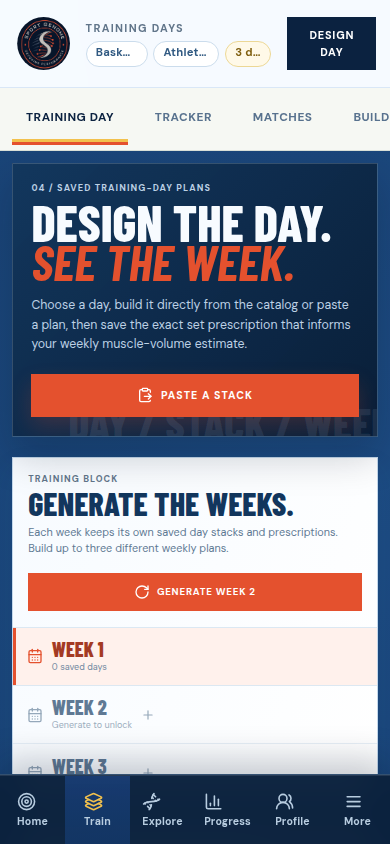
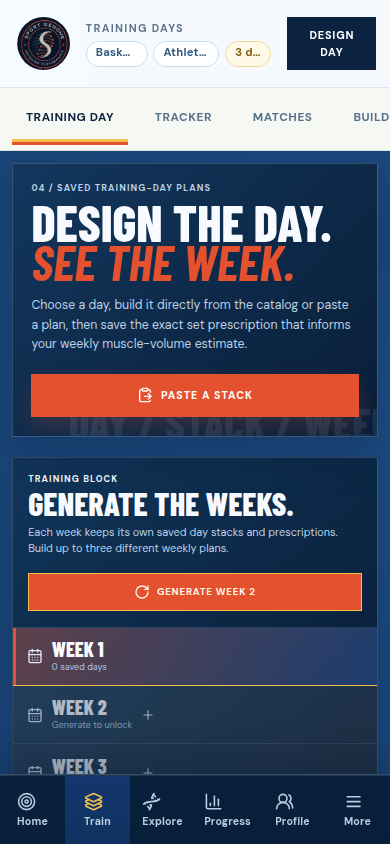
Checkpoint: Published the Training Day and Tracker dark-surface refinement. Remaining broad white weekly-planning cards now use layered operational navy panels, with white/cool-blue text, clear gold/orange active states, and unchanged actions. Tracker’s day selection and direct-entry workout panel n

diff --git a/client/src/index.css b/client/src/index.css
@@ -707,6 +707,22 @@ select {
 .destination-train .day-programming-panel .metric-label, .destination-train .day-programming-panel strong, .destination-train .day-programming-panel label, .destination-train .day-programming-panel summary { color: #edf7ff; }
 .destination-train .day-programming-panel small, .destination-train .day-programming-panel p, .destination-train .day-programming-panel .custom-detail-row label { color: #c3d7ea; }
 .destination-train .day-programming-panel select, .destination-train .day-programming-panel textarea { border-color: rgb(164 200 232 / .42); background: #0b2240; color: #f7fbff; }
+.destination-train .three-week-planner, .destination-train .weekly-plan-board { border: 1px solid rgb(164 200 232 / .26); background: linear-gradient(140deg, rgb(16 52 88 / .94), rgb(7 25 47 / .98)); box-shadow: 0 16px 36px rgb(1 12 28 / .22); color: #edf7ff; }
+.destination-train .three-week-head, .destination-train .weekly-plan-head { border-bottom-color: rgb(164 200 232 / .2); }
+.destination-train .three-week-head h2, .destination-train .weekly-plan-head h3, .destination-train .three-week-head .metric-label, .destination-train .weekly-plan-head .metric-label { color: #f7fbff; }
+.destination-train .three-week-head p, .destination-train .weekly-plan-head p { color: #bfd5ea; }
+.destination-train .three-week-head > button, .destination-train .weekly-plan-head > button { border-color: #f2c14d; background: #e4512e; color: #fff7e7; }
+.destination-train .three-week-tabs { border-color: rgb(164 200 232 / .22); background: rgb(255 255 255 / .05); }
+.destination-train .three-week-tabs button, .destination-train .weekly-day-card { border-color: rgb(164 200 232 / .2); background: rgb(255 255 255 / .055); color: #dceafb; }
+.destination-train .three-week-tabs button strong, .destination-train .weekly-day-card strong { color: #f7fbff; }
+.destination-train .three-week-tabs button small, .destination-train .weekly-day-card small { color: #acc9e4; }
+.destination-train .three-week-tabs button[aria-pressed="true"], .destination-train .weekly-day-card[aria-pressed="true"] { border-color: #f2c14d; background: linear-gradient(115deg, rgb(228 81 46 / .34), rgb(45 108 223 / .28)); box-shadow: inset 3px 0 0 #e4512e; }
+.destination-train .device-workout-tracker .session-exercise { border-color: rgb(164 200 232 / .22); background: rgb(5 23 44 / .72); }
+.destination-train .device-workout-tracker .session-exercise strong, .destination-train .device-workout-tracker .session-exercise small, .destination-train .device-workout-tracker .session-set-row strong, .destination-train .device-workout-tracker .session-set-row label span { color: #e7f2fc; }
+.destination-train .device-workout-tracker .session-set-row { border-top-color: rgb(164 200 232 / .18); background: rgb(255 255 255 / .035); }
+.destination-train .device-workout-tracker .session-set-row input { border-color: rgb(164 200 232 / .4); background: #0b2240; color: #f7fbff; }
+.destination-train .device-workout-tracker .session-set-row button { border-color: rgb(164 200 232 / .45); background: rgb(255 255 255 / .09); color: #eef7ff; }
+.destination-train .device-workout-tracker .session-set-complete { border-left-color: #f2c14d; background: rgb(242 193 77 / .11); }
 
 .apex-content.destination-explore { background: radial-gradient(circle at 12% 10%, #d8edff 0, #eff7ff 30%, #cbdff4 100%); }
 .destination-explore .atlas-sport-picker, .destination-explore .movement-selector, .destination-explore .body-lab-v2 > .view-header, .destination-explore .catalog-discovery { border-color: #90b8de; background: linear-gradient(135deg, #103b67, #0a274b); color: #eff8ff; box-shadow: 0 16px 34px rgb(8 38 73 / .16); }

diff --git a/client/src/trainDestination.styles.test.ts b/client/src/trainDestination.styles.test.ts
@@ -1,0 +1,15 @@
+import { describe, expect, it } from "vitest";
+import { readFileSync } from "node:fs";
+
+const source = readFileSync(new URL("./index.css", import.meta.url), "utf8");
+
+describe("Train destination operational surfaces", () => {
+  it("keeps weekly planning and Tracker execution on layered navy surfaces", () => {
+    expect(source).toContain(".destination-train .three-week-planner, .destination-train .weekly-plan-board");
+    expect(source).toContain(".destination-train .three-week-tabs button, .destination-train .weekly-day-card");
+    expect(source).toContain('.destination-train .three-week-tabs button[aria-pressed="true"], .destination-train .weekly-day-card[aria-pressed="true"]');
+    expect(source).toContain(".destination-train .device-workout-tracker .session-exercise");
+    expect(source).toContain(".destination-train .device-workout-tracker .session-set-row input");
+    expect(source).toContain("#f2c14d");
+  });
+});

diff --git a/todo.md b/todo.md
@@ -89,7 +89,8 @@
 - [x] Visually audit the full Training Day stack-analysis overlay and add regression coverage for its dark-surface label and control contrast.
 - [x] Add explicit high-contrast dark-surface styles for Stack Analysis headings, labels, metric text, rows, and controls.
 - [x] Add focused regression coverage for Stack Analysis overlay contrast tokens and controls, separate from split-target scoring semantics.
-- [ ] Reduce broad white surfaces by giving Train a deep operational navy theme and Tracker a focused dark execution theme.
+- [x] Reduce broad white surfaces by giving Train a deep operational navy theme and Tracker a focused dark execution theme.
+- [x] Convert the visible Training Day weekly-planning and Tracker execution panels from broad white cards to readable layered navy operational surfaces.
 - [ ] Give Explore a layered blue discovery-lab theme, Progress a dark measured-review theme, Profile a personal-control theme, and More a compact utility theme.
 - [ ] Establish accessible dark-surface typography, panel, divider, and interaction tokens so the destination themes remain cohesive and readable.
 - [x] Reduce repeated Progress empty-state and methodology copy to concise recorded-status cards with one relevant next action.
